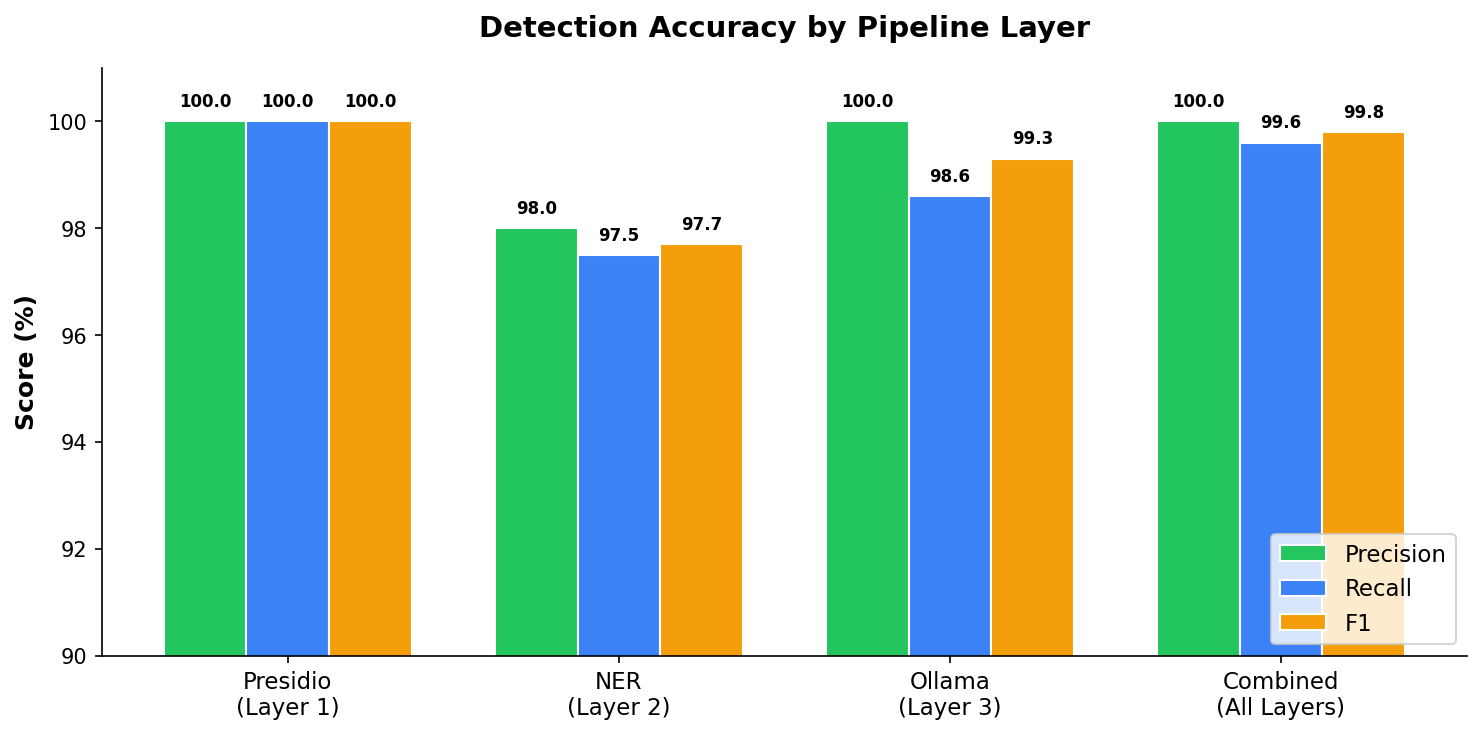
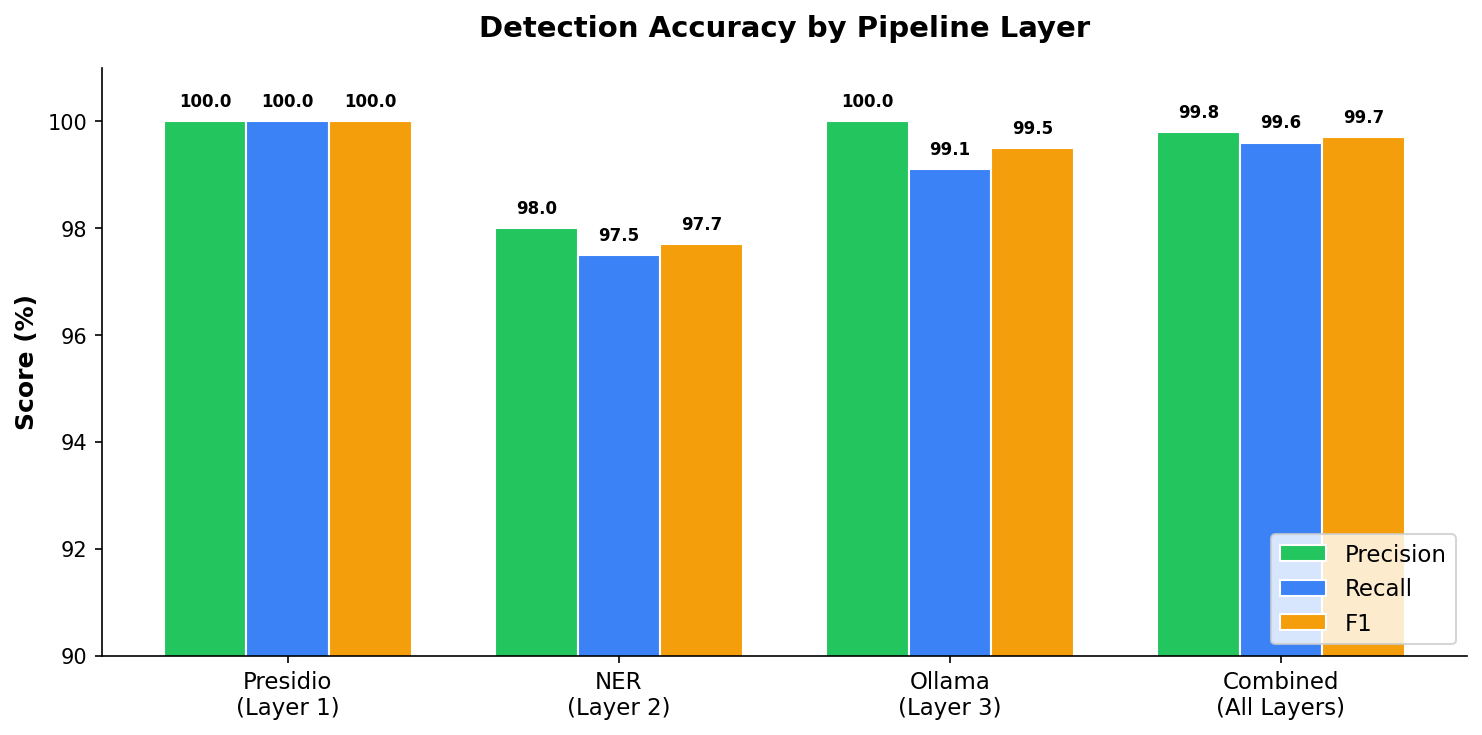
Update benchmark results to match final verified run
Ollama recall 99.1%, combined precision 99.8%, F1 99.7%.

Changed region(s): [[0.5897, 0.1497, 0.7139, 0.2694], [0.9001, 0.1197, 0.9622, 0.2095], [0.776, 0.1197, 0.8381, 0.1796]]

diff --git a/README.tr.md b/README.tr.md
@@ -141,8 +141,8 @@ Tüm 17 yerleşik regülasyon aktif. 10 varlık tipinde **1 618 algoritmik olara
 |---|:---:|:---:|:---:|:---:|:---:|
 | Presidio (K1) — desenler + doğrulayıcılar | 1 200 | 8 | %100 | %100 | %100 |
 | NER (K2) — XLM-RoBERTa | 200 | 2 | %98,0 | %97,5 | %97,7 |
-| Ollama (K3) — aya-expanse:8b | 218 | 2 | %100 | %98,6 | %99,3 |
-| **Birleşik** | **1 618** | **10** | **%100** | **%99,6** | **%99,8** |
+| Ollama (K3) — aya-expanse:8b | 218 | 2 | %100 | %99,1 | %99,5 |
+| **Birleşik** | **1 618** | **10** | **%99,8** | **%99,6** | **%99,7** |
 
 > Ollama (K3), takma adları yakalayarak PERSON_NAME recall'ını %97'den %100'e çıkarır ve bağlam duyarlı doğrulama ile yanlış pozitifleri ortadan kaldırır. Tekrarlanabilir: `pytest tests/benchmark_detection.py -v -s`
 

diff --git a/README.md b/README.md
@@ -141,8 +141,8 @@ All 17 built-in regulations active. **1 618 algorithmically generated PII values
 |---|:---:|:---:|:---:|:---:|:---:|
 | Presidio (L1) — patterns + validators | 1 200 | 8 | 100% | 100% | 100% |
 | NER (L2) — XLM-RoBERTa | 200 | 2 | 98.0% | 97.5% | 97.7% |
-| Ollama (L3) — aya-expanse:8b | 218 | 2 | 100% | 98.6% | 99.3% |
-| **Combined** | **1 618** | **10** | **100%** | **99.6%** | **99.8%** |
+| Ollama (L3) — aya-expanse:8b | 218 | 2 | 100% | 99.1% | 99.5% |
+| **Combined** | **1 618** | **10** | **99.8%** | **99.6%** | **99.7%** |
 
 > Ollama (L3) improves PERSON_NAME recall from 97% to 100% by catching aliases, and eliminates false positives via context-aware validation. Reproducible: `pytest tests/benchmark_detection.py -v -s`
 
